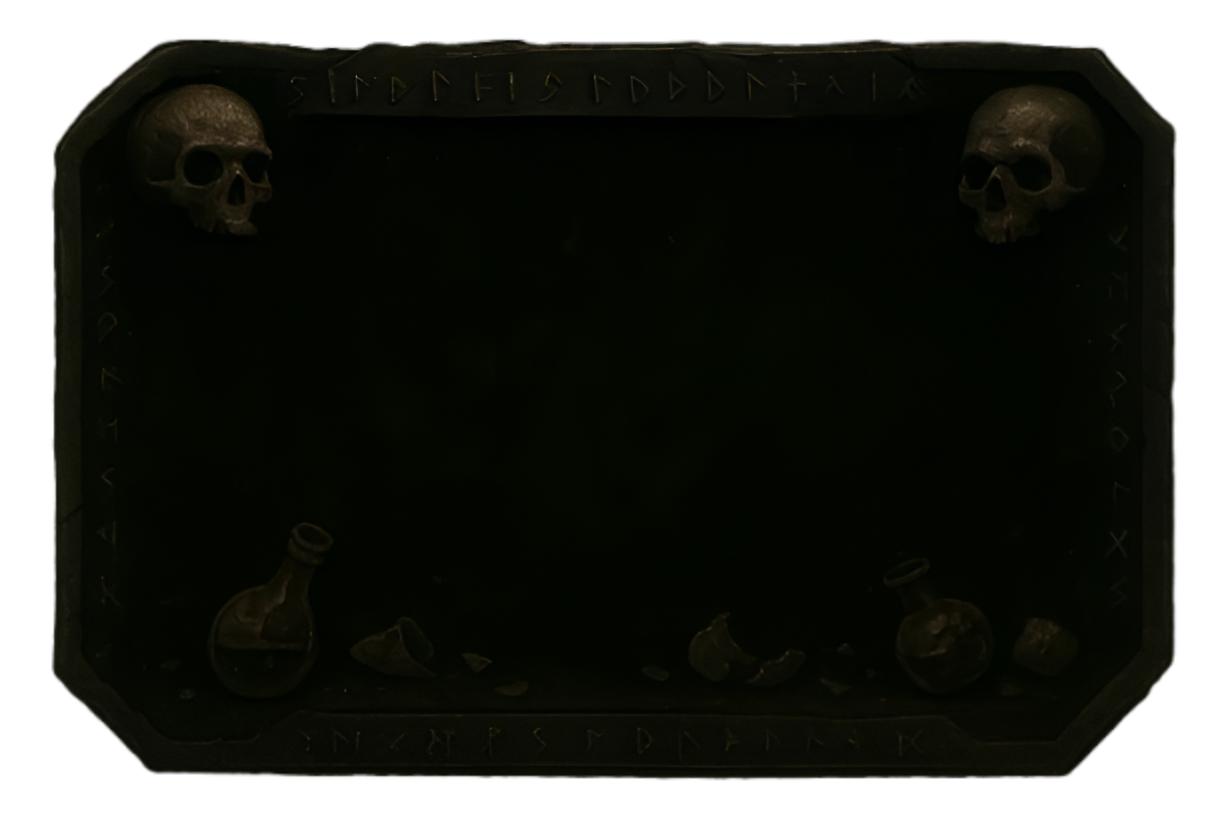
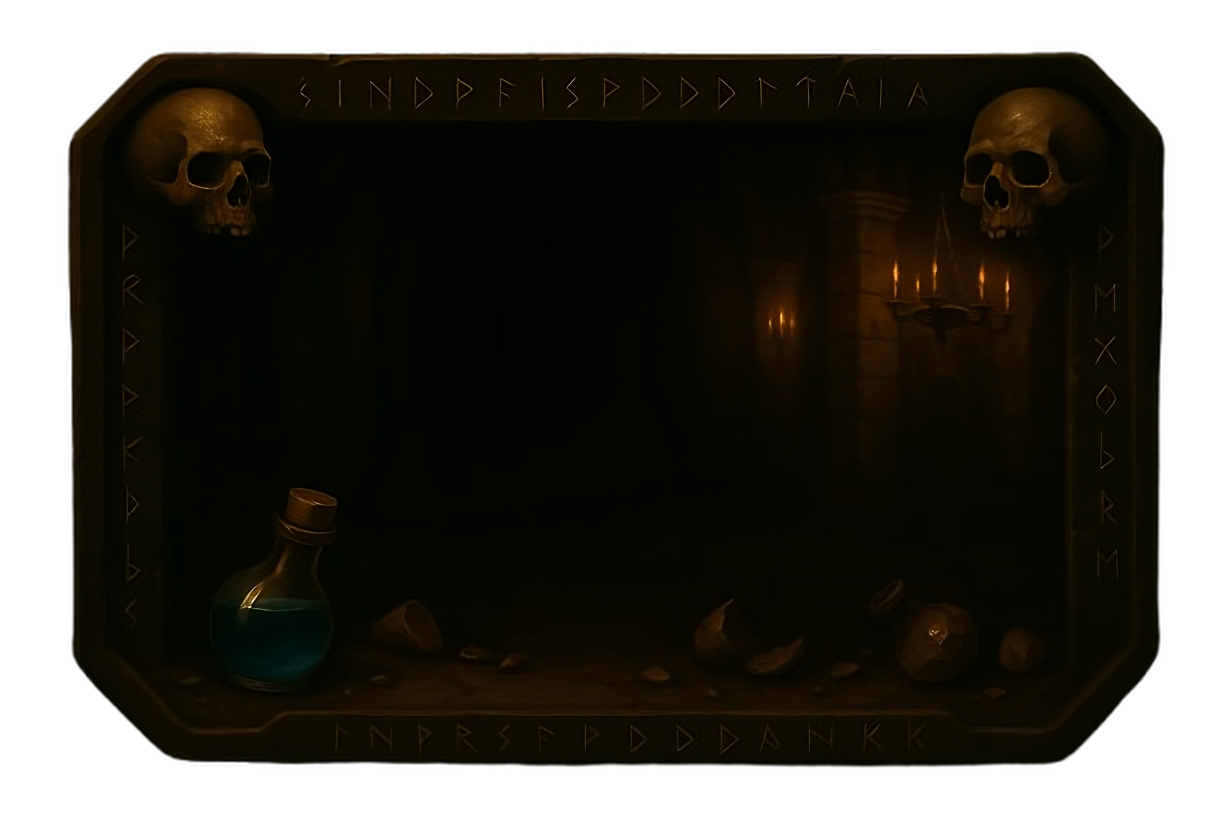
refactor: update defeat background and adjust styles for new elements

diff --git a/src/App.css b/src/App.css
@@ -4,65 +4,101 @@
   text-align: center;
 }
 
-.game-container {
-  background-image: url("./assets/images/backgroundGame.jpg");
-  background-repeat: no-repeat;
-  background-size: auto 100%;
-  background-position: center;
-  max-width: 130vh;
-  border-radius: 50%;
-  min-height: 90vh;
-  margin: 0 auto;
+.main-menu {
+  position: relative;
+  width: 100%;
+  min-height: 100vh;
   display: flex;
-}
-
-.potions-container {
+  flex-direction: column;
   justify-content: center;
   align-items: center;
-  width: 65vh;
-  height: 61.5vh;
+  text-align: center;
+  overflow: hidden;
+  background: linear-gradient(
+      to top,
+      rgba(0, 0, 0, 0.9) 0%,
+      rgba(0, 0, 0, 0) 20%
+    ),
+    radial-gradient(
+      circle at center,
+      rgba(0, 0, 0, 0) 65%,
+      rgba(0, 0, 0, 1) 100%
+    ),
+    url("./assets/images/main-menu-screen.png") center/cover no-repeat #000;
+}
+.main-menu::before {
+  content: "";
   position: absolute;
-  top: 50%;
-  left: 50%;
-  translate: -50% -50%;
-  cursor: pointer;
+  inset: 0;
+  background: linear-gradient(rgba(0, 0, 0, 0.85), rgba(0, 0, 0, 0.6));
+  z-index: 0;
 }
 
-.potions-0 {
-  width: 11vh;
-  height: 10vh;
-  top: 72%;
-  left: 3%;
+.main-menu > * {
+  position: relative;
+  z-index: 1;
 }
 
-.potions-1 {
-  width: 11vh;
-  height: 10vh;
-  top: 72%;
+.main-menu h1 {
+  position: absolute;
+  top: 2%;
+  left: 30%;
+  margin: 0;
+  opacity: 0;
+  animation: fadeSlideDown 1.2s ease-out forwards;
+}
+
+.main-menu h2 {
+  position: absolute;
+  top: 20%;
   left: 25%;
+  margin: 0;
+  color: #facc15;
+  font-size: 3.2rem;
+  animation: glow 2s ease-in-out infinite alternate;
 }
 
-.potions-2 {
-  width: 11vh;
-  height: 10vh;
-  top: 72%;
-  left: 46%;
+@keyframes glow {
+  from {
+    text-shadow: 0 0 5px #fff, 0 0 10px #707572, 0 0 20px #cbd7d6;
+    opacity: 0.8;
+  }
+  to {
+    text-shadow: 0 0 15px #fff, 0 0 30px #e09090, 0 0 60px #453143;
+    opacity: 1;
+  }
 }
 
-.potions-3 {
-  width: 11vh;
-  height: 10vh;
-  top: 72%;
-  left: 67%;
+@keyframes fadeSlideDown {
+  0% {
+    opacity: 0;
+    transform: translateY(-30px);
+  }
+  100% {
+    opacity: 1;
+    transform: translateY(0);
+  }
 }
 
-.potions-0,
-.potions-1,
-.potions-2,
-.potions-3 {
+.door-button {
+  width: 17.5vh;
+  height: 45vh;
+  border-radius: 1rem;
   position: absolute;
-  border-top-left-radius: 10px;
-  border-top-right-radius: 10px;
-  border-bottom-right-radius: 200px;
-  border-bottom-left-radius: 200px;
+  bottom: 19%;
+  left: 38%;
+  border-top-right-radius: 300px;
+  border-top-left-radius: 300px;
+  border-bottom-right-radius: 20px;
+  background-color: transparent;
+}
+
+.door-button:focus-visible,
+.door-button:focus {
+  outline: none;
+}
+
+.door-button:hover {
+  transform: scale(1.1);
+  box-shadow: 0 0 1.25rem rgb(252 231 172) inset;
 }

diff --git a/src/index.css b/src/index.css
@@ -1,5 +1,6 @@
 :root {
   font-family: system-ui, Avenir, Helvetica, Arial, sans-serif;
+  font-family: KochAltschrift;
 
   color-scheme: light dark;
   color: rgba(255, 255, 255, 0.87);
@@ -9,6 +10,10 @@
   text-rendering: optimizeLegibility;
   -webkit-font-smoothing: antialiased;
   -moz-osx-font-smoothing: grayscale;
+}
+@font-face {
+  font-family: KochAltschrift;
+  src: url("./assets/fonts/KochAltschrift.ttf");
 }
 
 a {
@@ -21,8 +26,17 @@ a:hover {
 }
 
 h1 {
-  font-size: 3.2em;
+  font-size: 4.2rem;
   line-height: 1.1;
+  color: antiquewhite;
+}
+
+html,
+body {
+  margin: 0;
+  padding: 0;
+  height: 100%;
+  overflow: hidden;
 }
 
 button {
@@ -32,12 +46,12 @@ button {
   font-size: 1em;
   font-weight: 500;
   font-family: inherit;
-  background-color: #1a1a1a;
+  background-color: "transparent";
   cursor: pointer;
   transition: border-color 0.25s;
 }
 button:hover {
-  border-color: #646cff;
+  border-color: #9ec45d;
 }
 button:focus,
 button:focus-visible {
@@ -50,7 +64,7 @@ button:focus-visible {
     background-color: #ffffff;
   }
   a:hover {
-    color: #747bff;
+    color: #9ec45d;
   }
   button {
     background-color: #f9f9f9;
